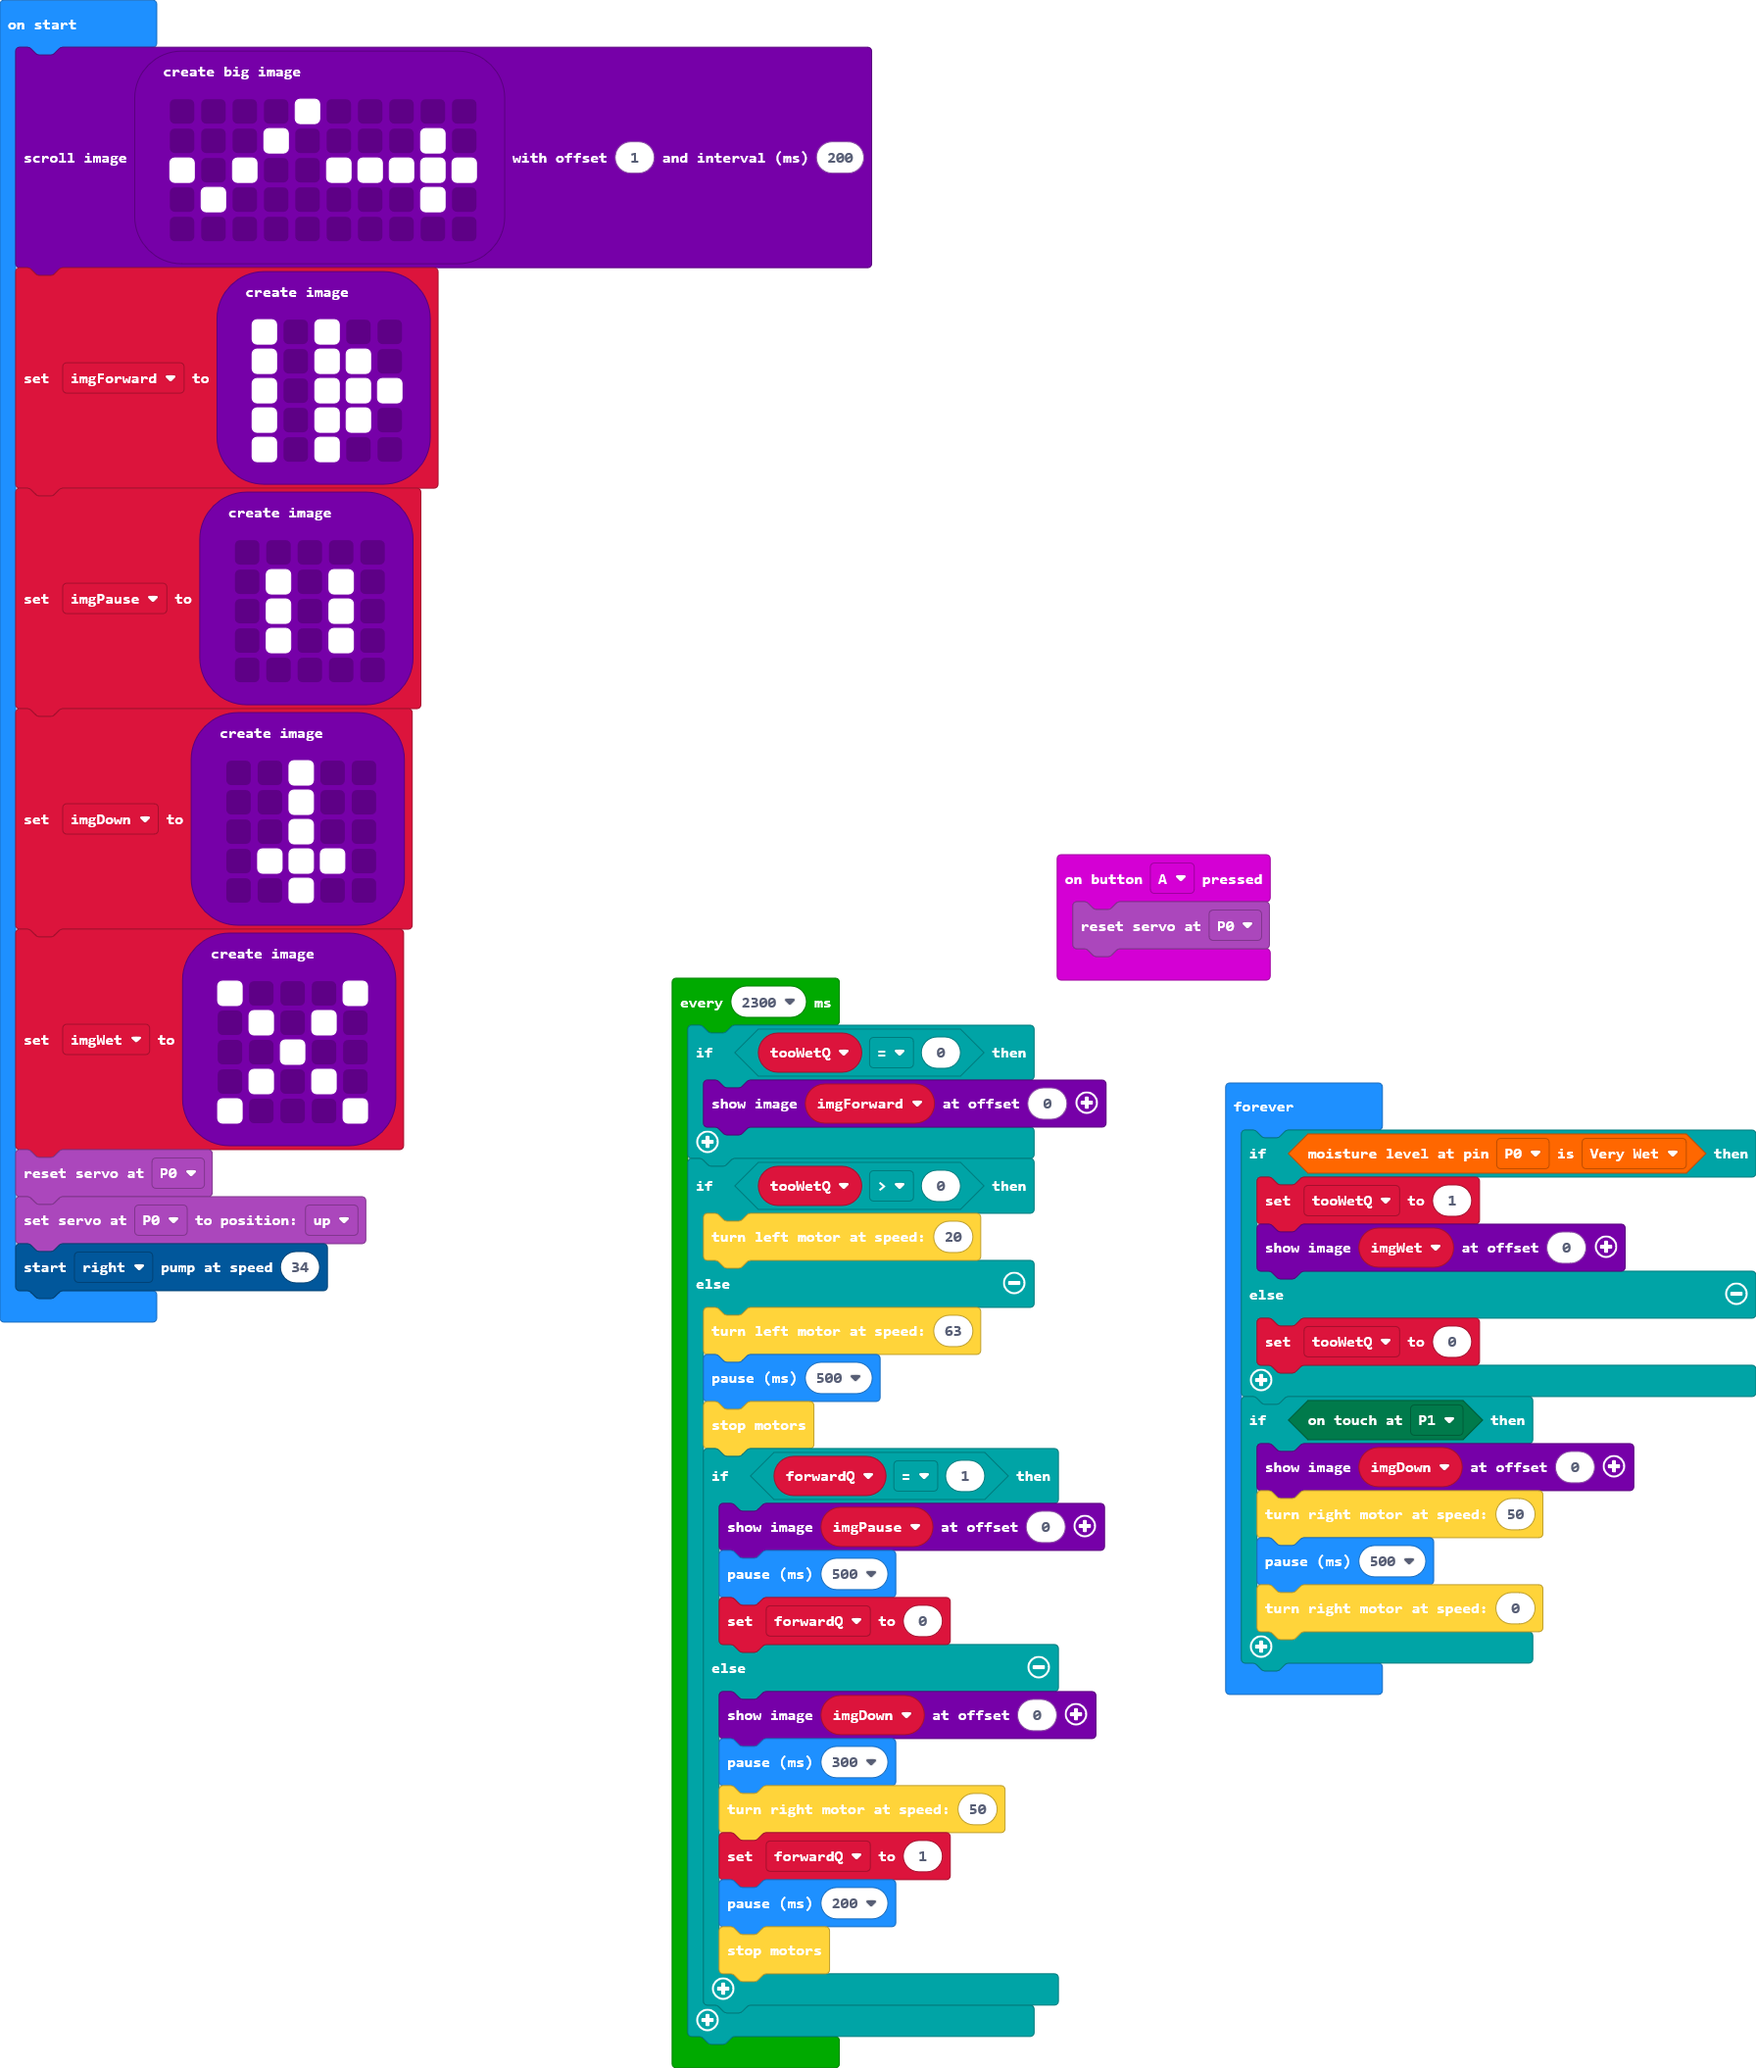
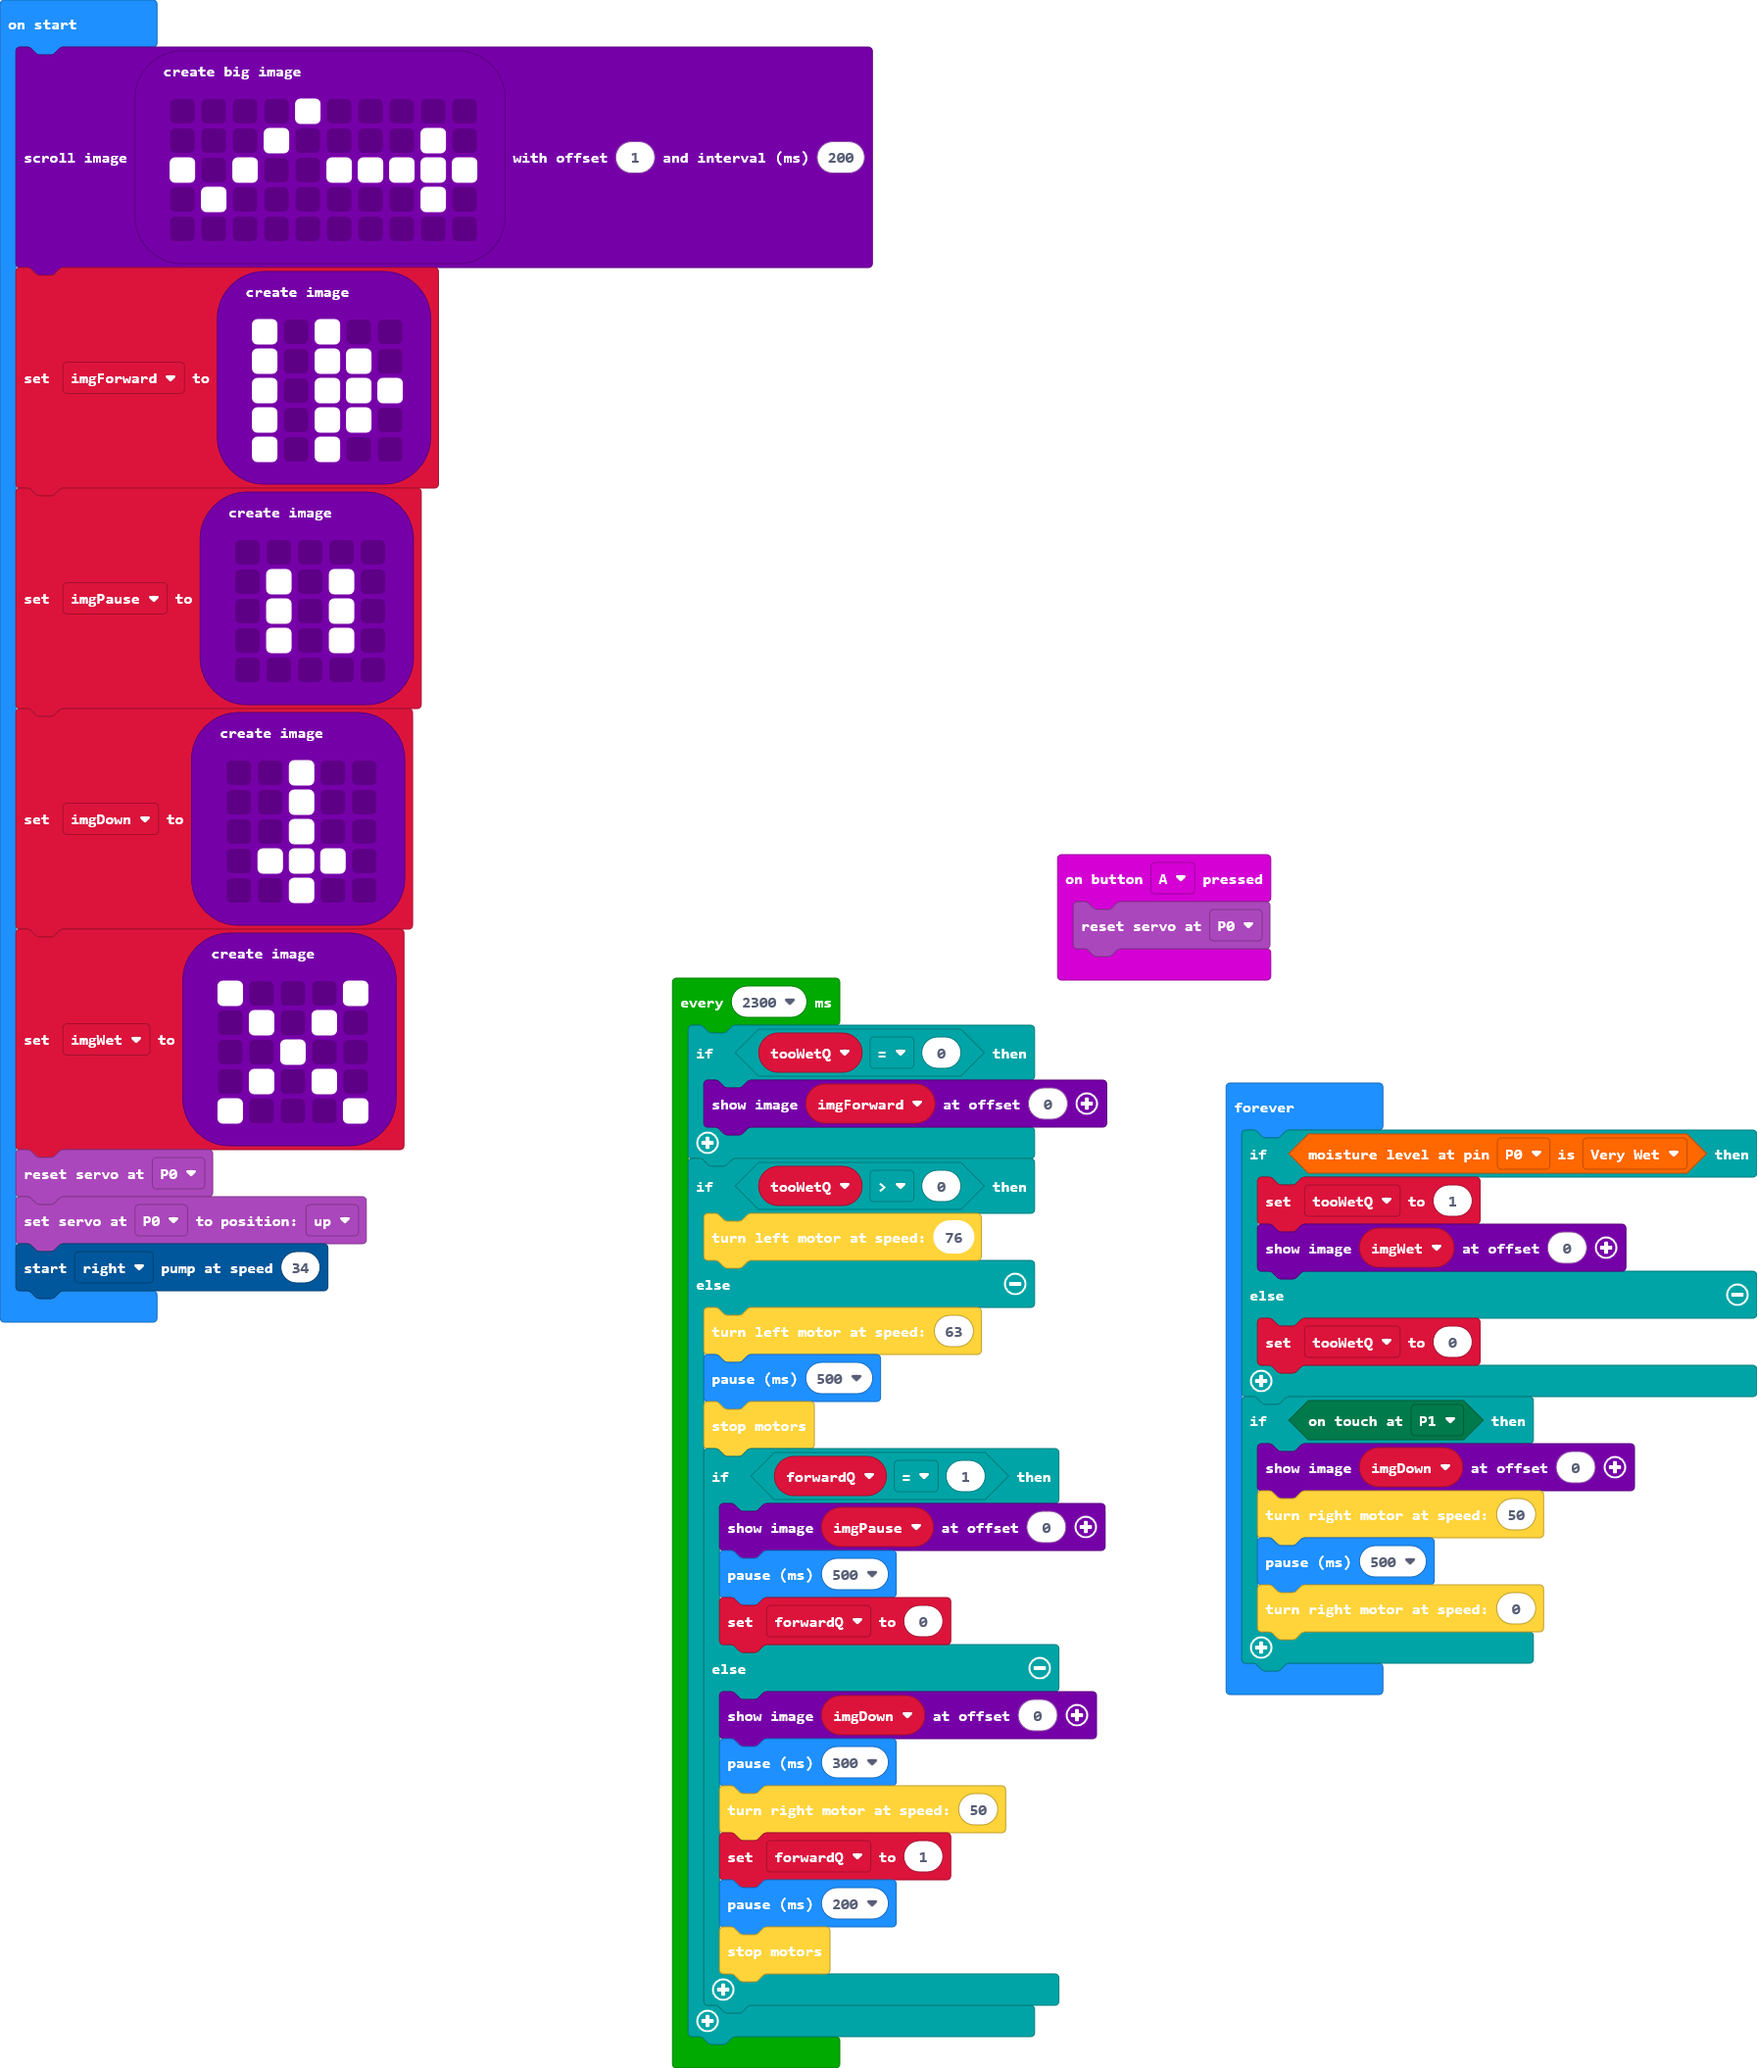
scree

diff --git a/main.ts b/main.ts
@@ -60,7 +60,7 @@ loops.everyInterval(2300, function () {
         imgForward.showImage(0)
     }
     if (tooWetQ > 0) {
-        cakLandMotor.turnLeft(20)
+        cakLandMotor.turnLeft(76)
     } else {
         cakLandMotor.turnLeft(63)
         basic.pause(500)
